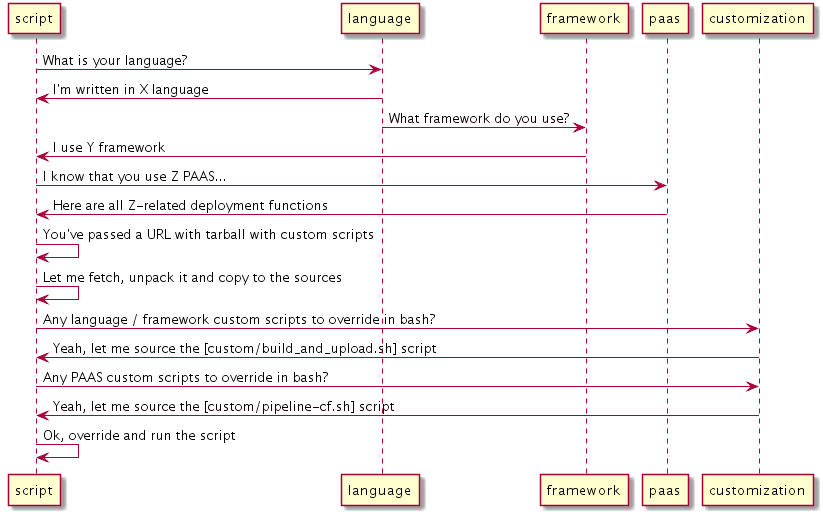
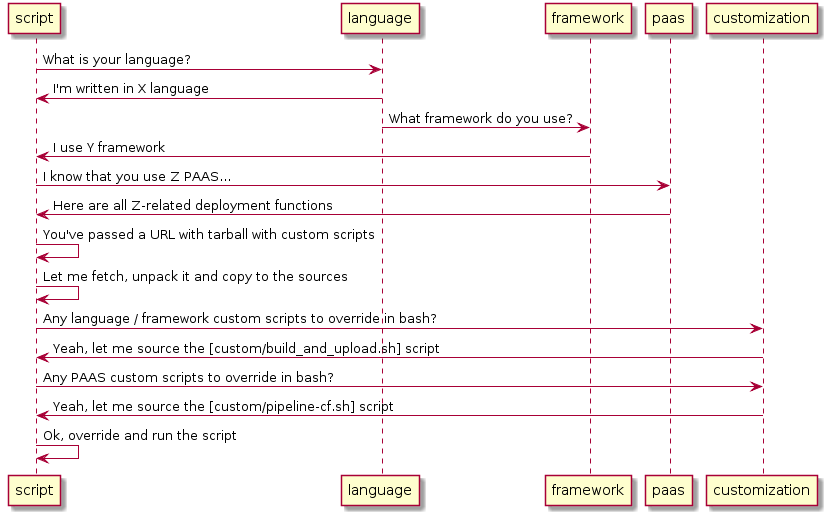
Sync docs

diff --git a/docs/DOCS.html b/docs/DOCS.html
@@ -908,7 +908,7 @@ code repository and read <code>src//main/bash/README.adoc</code>.</p>
 </div>
 <div class="imageblock">
 <div class="content">
-<img src="build-and-deployment.png" alt="build and deployment" width="1279" height="915">
+<img src="build-and-deployment.png" alt="build and deployment" width="1285" height="915">
 </div>
 </div>
 <div class="paragraph">
@@ -932,7 +932,7 @@ code repository and read <code>src//main/bash/README.adoc</code>.</p>
 </div>
 <div class="imageblock">
 <div class="content">
-<img src="sourcing.png" alt="sourcing" width="823" height="515">
+<img src="sourcing.png" alt="sourcing" width="827" height="515">
 </div>
 </div>
 <div class="paragraph">

diff --git a/docs/INTRO.html b/docs/INTRO.html
@@ -846,7 +846,7 @@ code repository and read <code>src//main/bash/README.adoc</code>.</p>
 </div>
 <div class="imageblock">
 <div class="content">
-<img src="build-and-deployment.png" alt="build and deployment" width="1279" height="915">
+<img src="build-and-deployment.png" alt="build and deployment" width="1285" height="915">
 </div>
 </div>
 <div class="paragraph">
@@ -870,7 +870,7 @@ code repository and read <code>src//main/bash/README.adoc</code>.</p>
 </div>
 <div class="imageblock">
 <div class="content">
-<img src="sourcing.png" alt="sourcing" width="823" height="515">
+<img src="sourcing.png" alt="sourcing" width="827" height="515">
 </div>
 </div>
 <div class="paragraph">

diff --git a/docs/index.html b/docs/index.html
@@ -908,7 +908,7 @@ code repository and read <code>src//main/bash/README.adoc</code>.</p>
 </div>
 <div class="imageblock">
 <div class="content">
-<img src="build-and-deployment.png" alt="build and deployment" width="1279" height="915">
+<img src="build-and-deployment.png" alt="build and deployment" width="1285" height="915">
 </div>
 </div>
 <div class="paragraph">
@@ -932,7 +932,7 @@ code repository and read <code>src//main/bash/README.adoc</code>.</p>
 </div>
 <div class="imageblock">
 <div class="content">
-<img src="sourcing.png" alt="sourcing" width="823" height="515">
+<img src="sourcing.png" alt="sourcing" width="827" height="515">
 </div>
 </div>
 <div class="paragraph">
